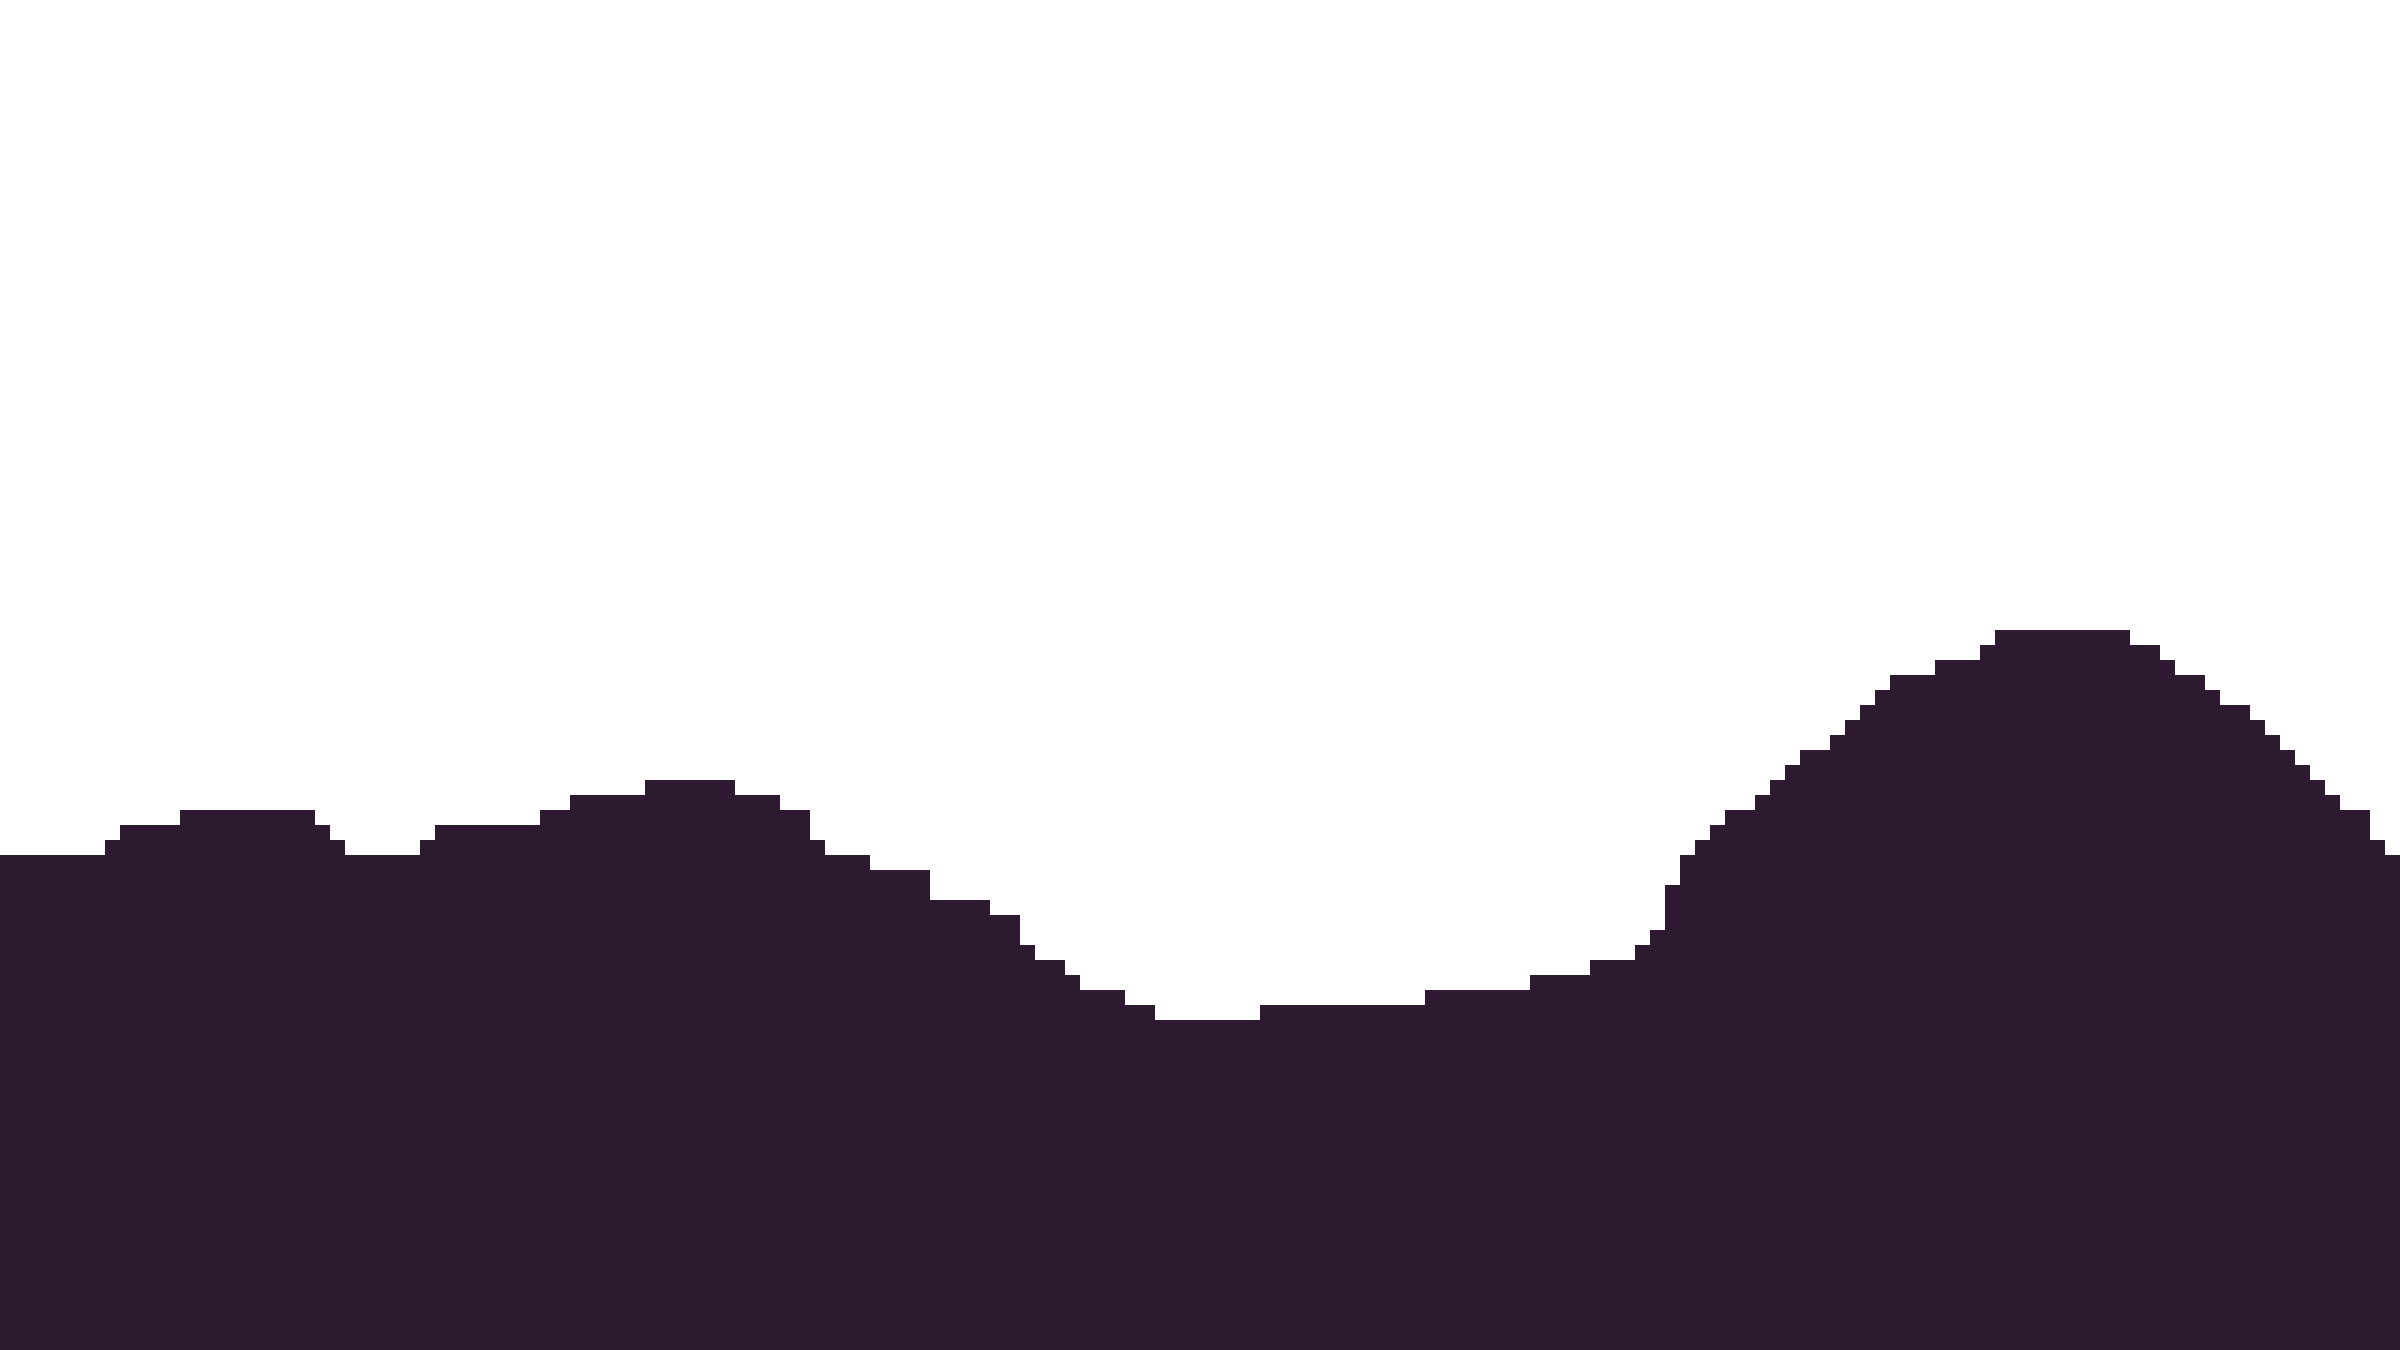
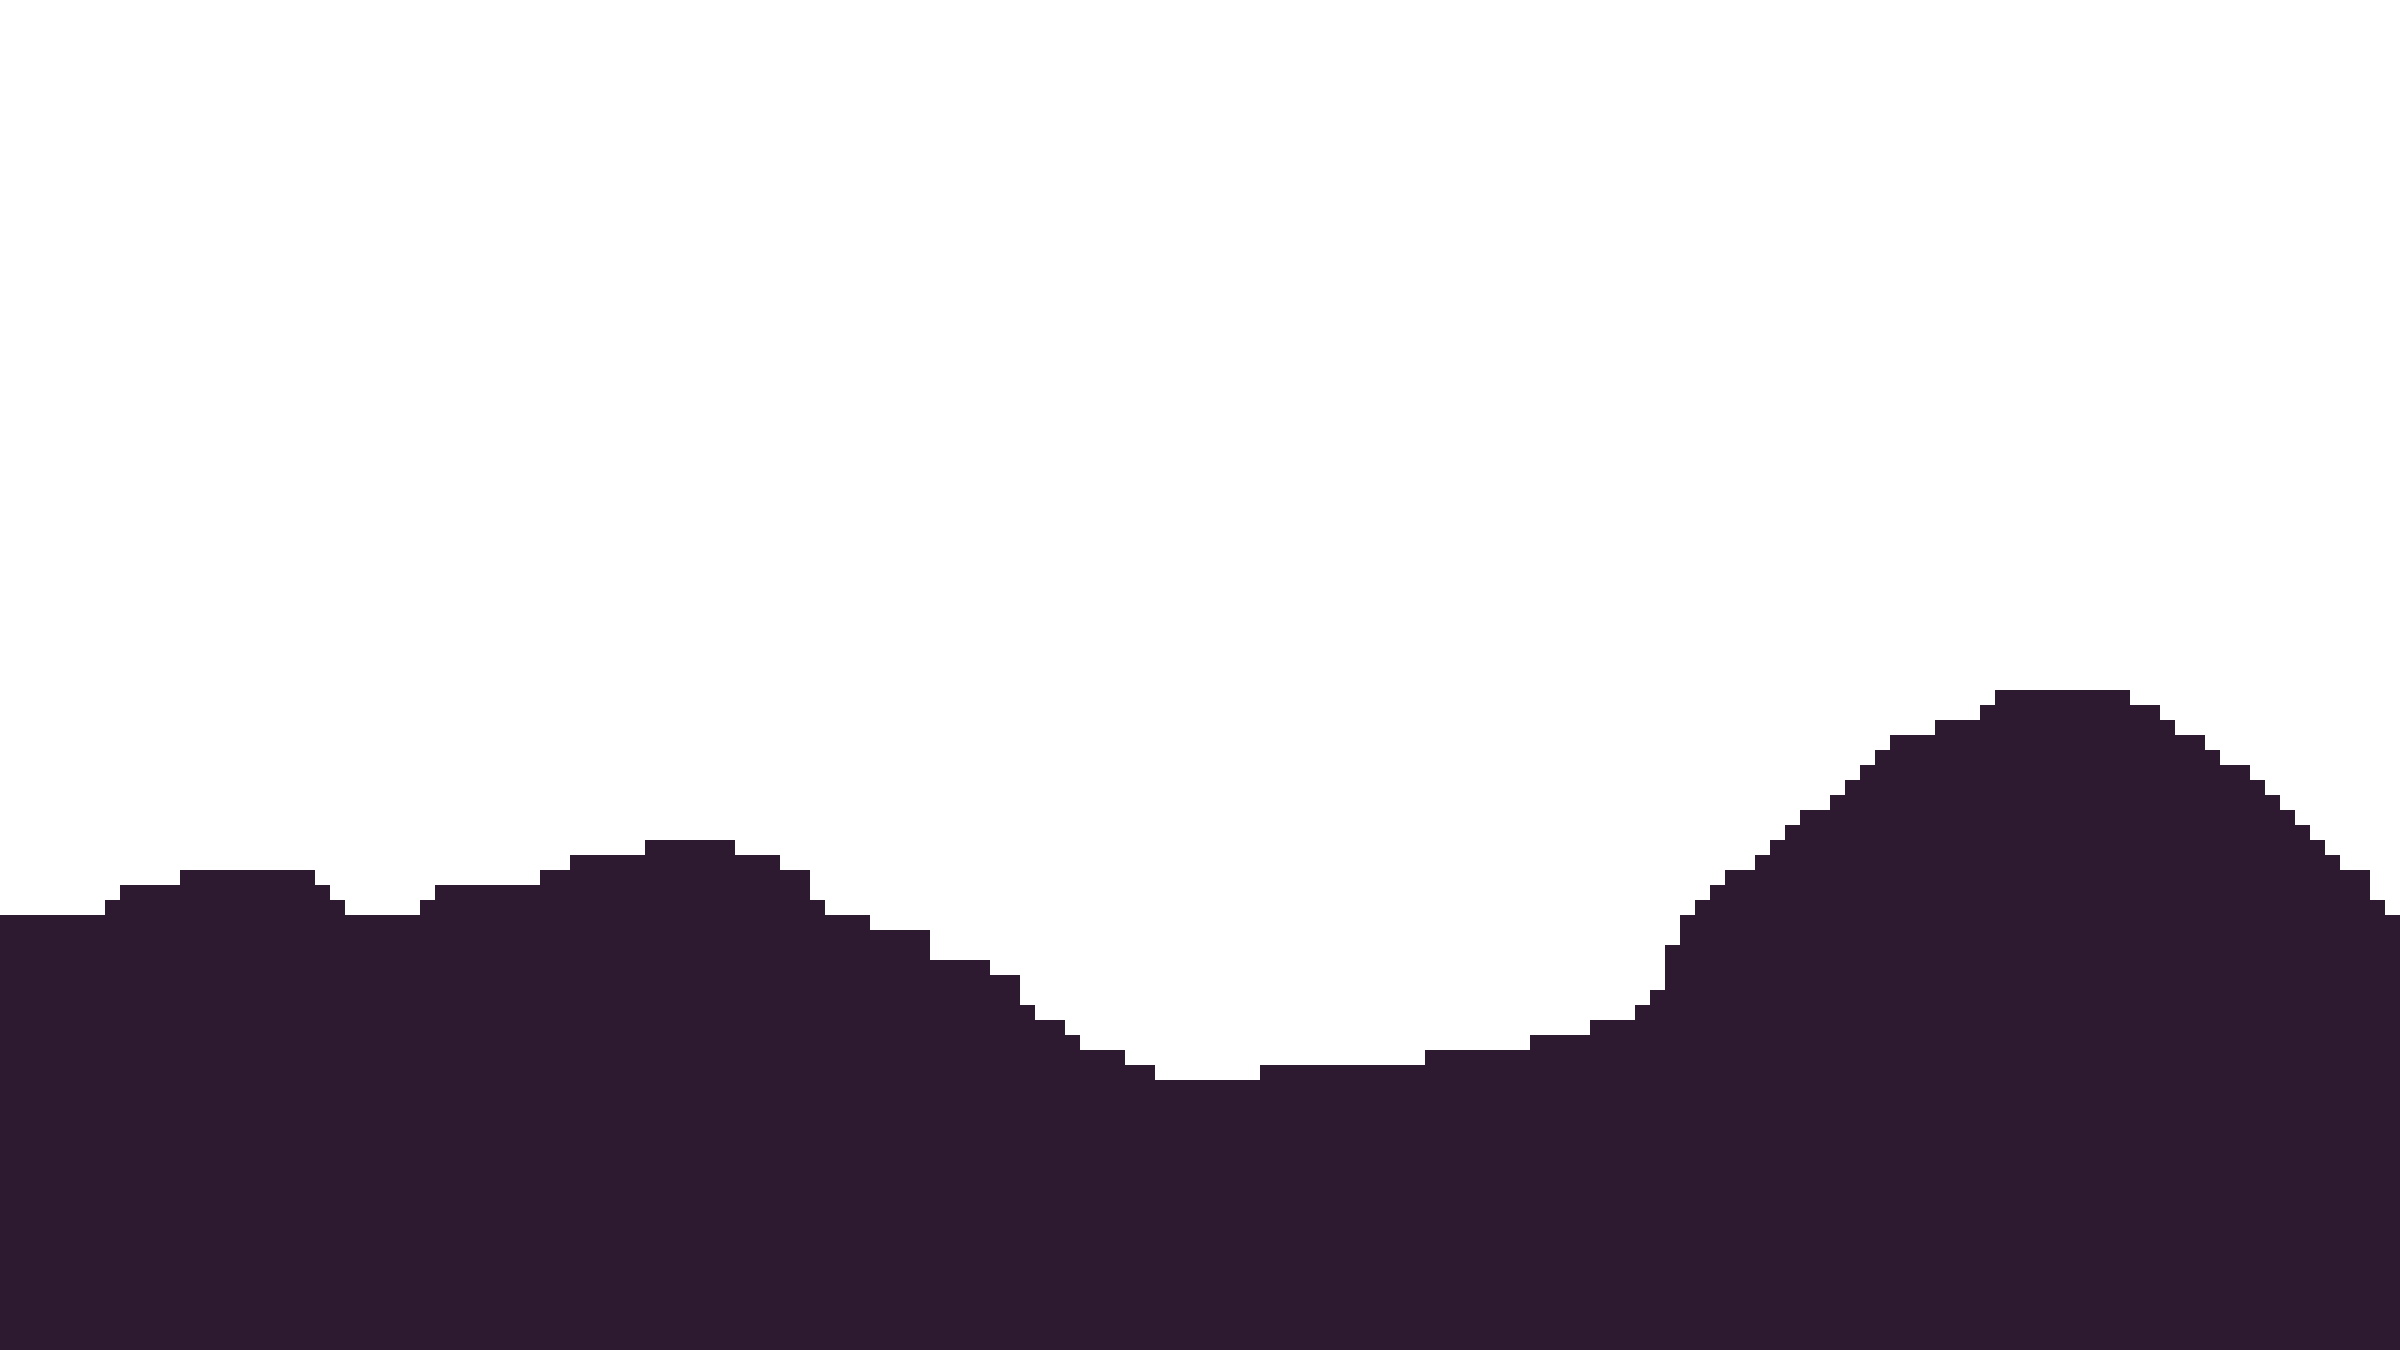
added sky with moon.

Changed region(s): [[0.0, 0.4667, 1.0, 0.8089]]

diff --git a/style.css b/style.css
@@ -40,3 +40,15 @@ body, html {
   height: 100%;
   z-index: 80;
 }
+
+#sky-div {
+  position: absolute;
+  top: 0;
+  left: 0;
+  right: 0;
+  bottom: 0;
+  background-image: url("./art/sky large.png");
+  background-size: 100% 100%;
+  height: 100%;
+  z-index: 70;
+}

diff --git a/index.html b/index.html
@@ -20,6 +20,9 @@
       <div id="boy-walking">
       </div>
 
+      <div id="sky-div">
+      </div>
+
       <div id="hills-1-div">
       </div>
 
